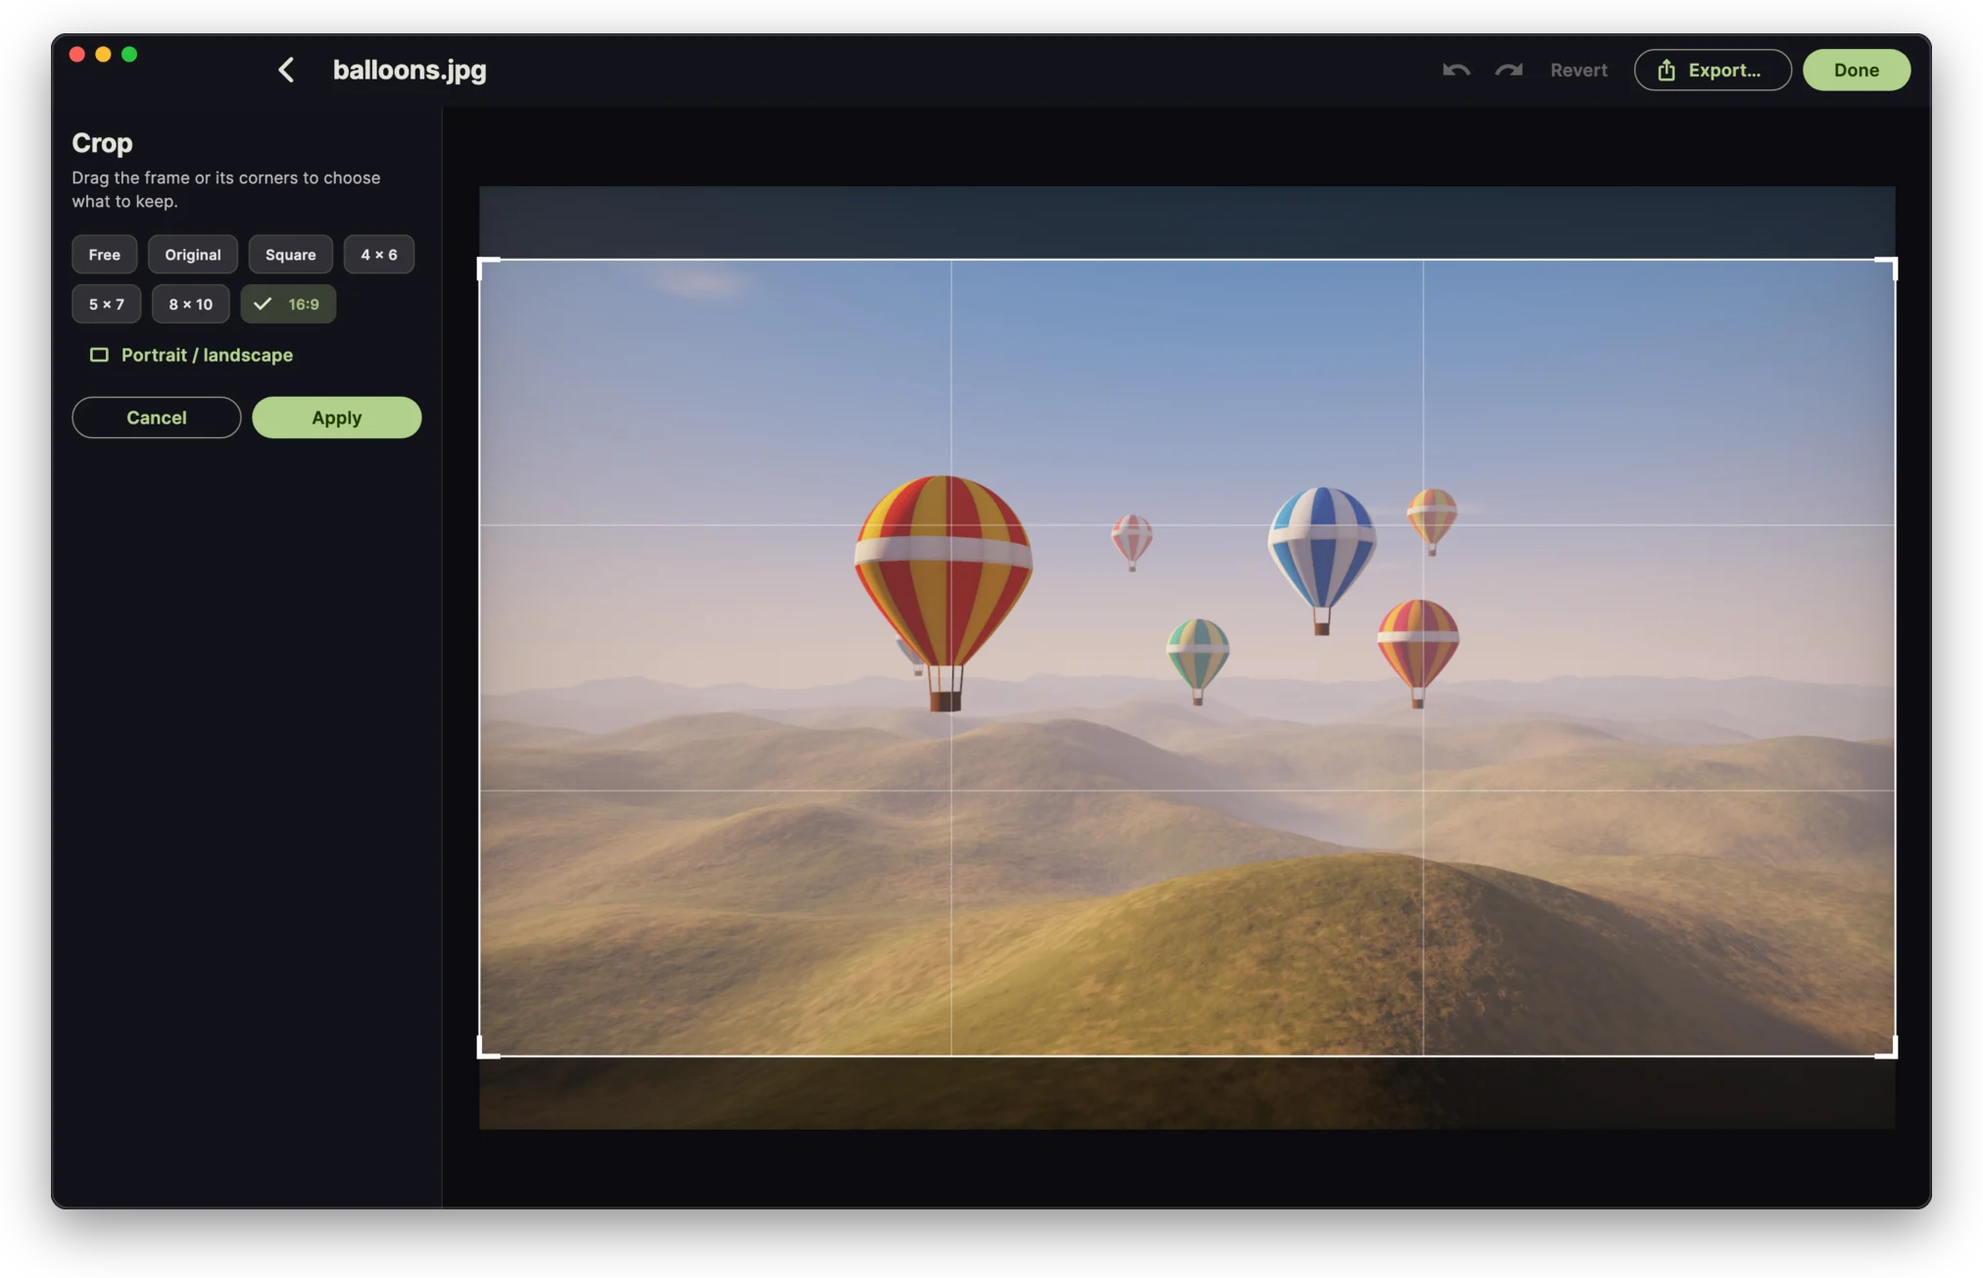
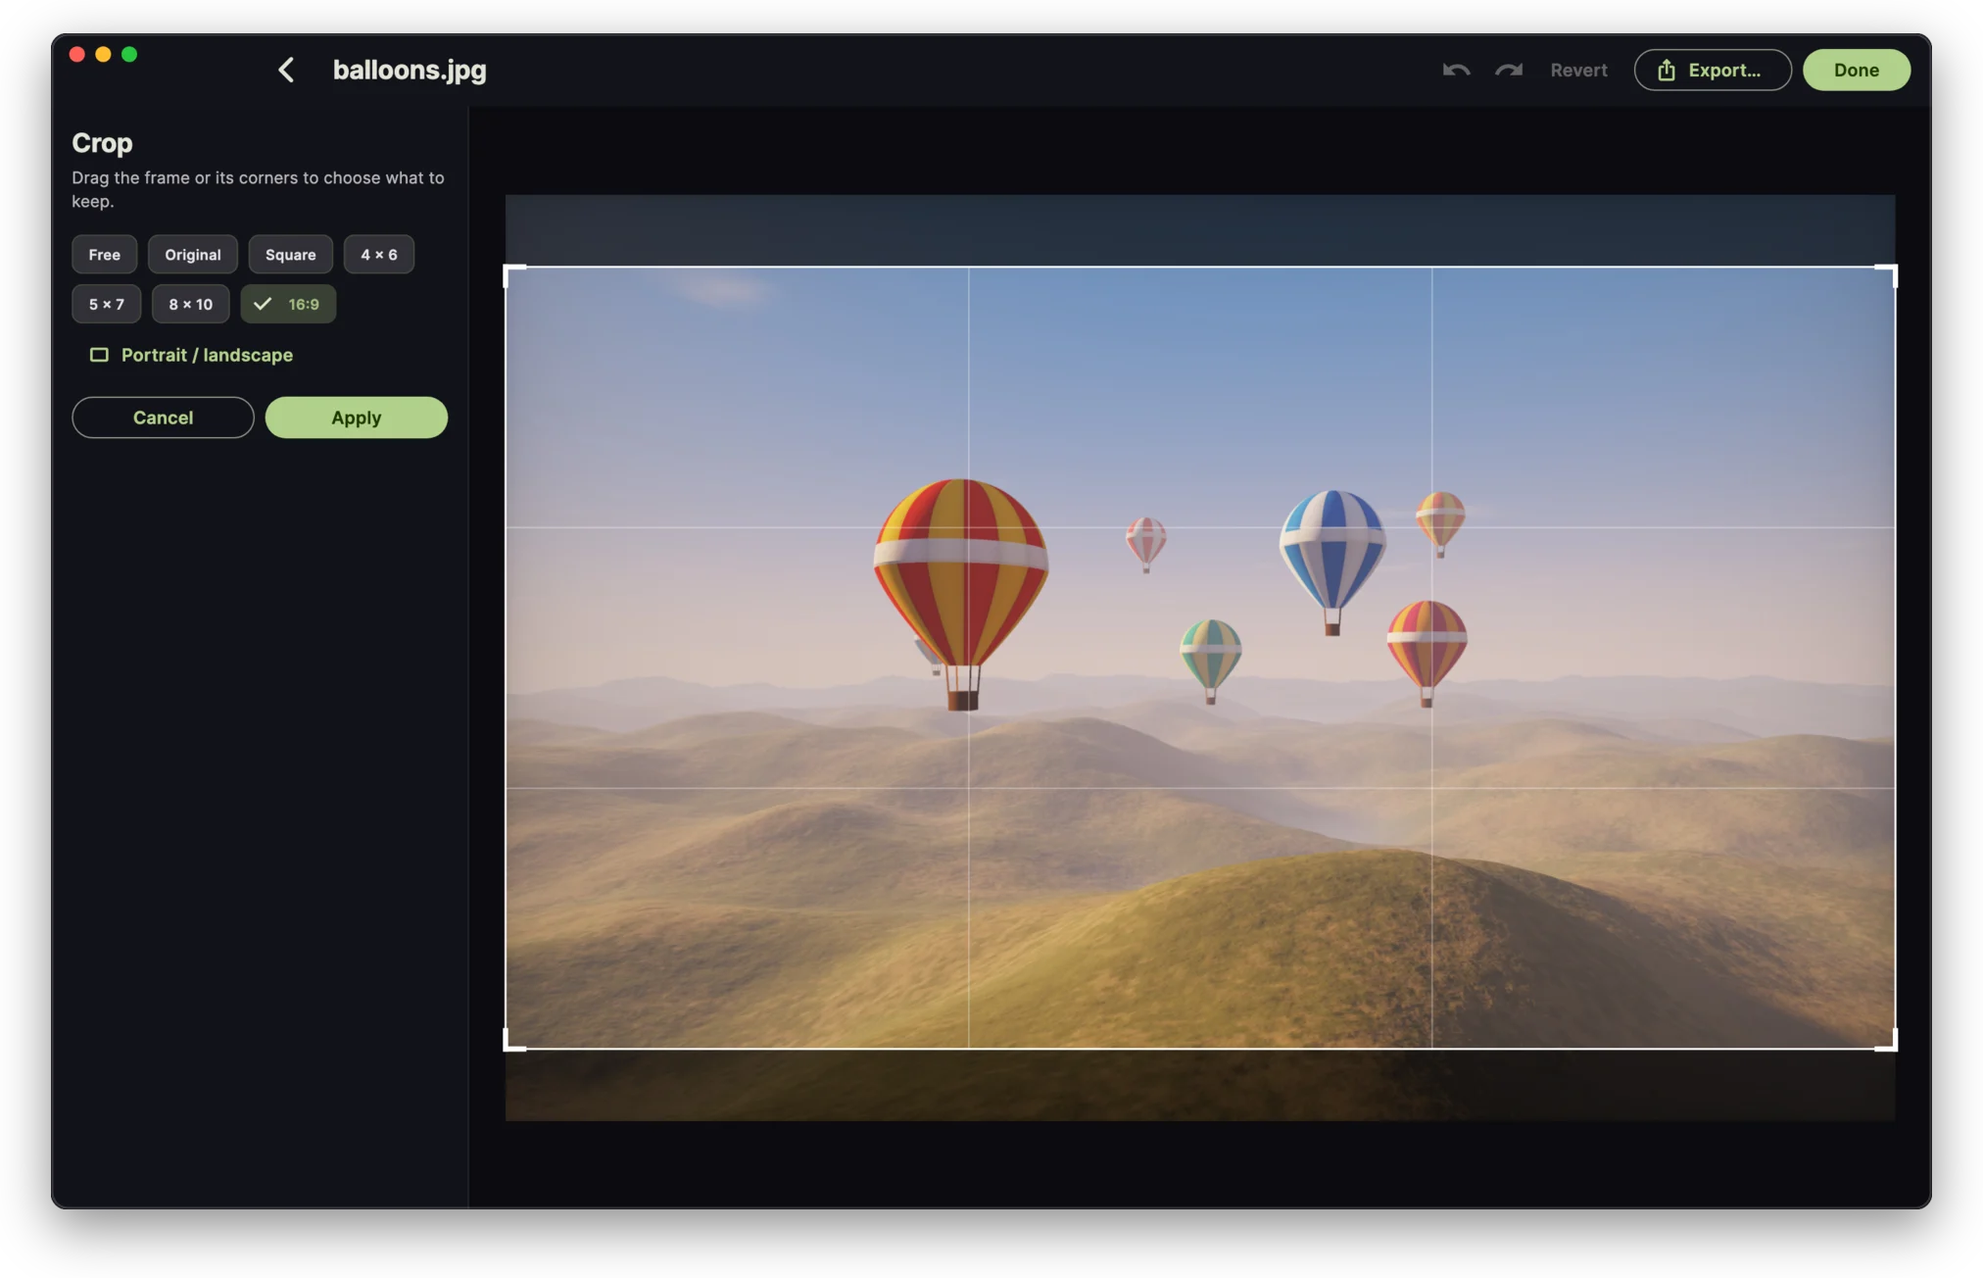
Docs: landing page, collage image and refreshed editor screenshots
A static page for GitHub Pages (served from /docs) with the metadata a
README can't carry: description, canonical URL, Open Graph, JSON-LD and a
sitemap.

diff --git a/docs/index.html b/docs/index.html
@@ -1,0 +1,272 @@
+<!doctype html>
+<html lang="en">
+<head>
+<meta charset="utf-8">
+<meta name="viewport" content="width=device-width, initial-scale=1">
+<title>Picavi: free Picasa alternative for macOS, Windows and Linux</title>
+<meta name="description" content="Picavi is a free Picasa alternative for macOS, Windows and Linux: a fast photo viewer, non-destructive editor and offline photo library. No account, no uploads.">
+<link rel="canonical" href="https://shreyashkore.github.io/picavi/">
+<link rel="icon" href="images/favicon.png" type="image/png">
+<link rel="apple-touch-icon" href="images/icon-180.png">
+<meta name="theme-color" content="#0b0d2a">
+<meta property="og:type" content="website">
+<meta property="og:site_name" content="Picavi">
+<meta property="og:title" content="Picavi: free Picasa alternative for macOS, Windows and Linux">
+<meta property="og:description" content="Picavi is a free Picasa alternative for macOS, Windows and Linux: a fast photo viewer, non-destructive editor and offline photo library. No account, no uploads.">
+<meta property="og:url" content="https://shreyashkore.github.io/picavi/">
+<meta property="og:image" content="https://shreyashkore.github.io/picavi/images/picavi-social-preview.jpg">
+<meta property="og:image:width" content="1280">
+<meta property="og:image:height" content="640">
+<meta property="og:image:alt" content="Picavi, the photo viewer, editor and library for everyone who still misses Picasa">
+<meta name="twitter:card" content="summary_large_image">
+<link rel="preload" as="image" href="images/hero-lake.webp" type="image/webp">
+<script type="application/ld+json">
+{
+ "@context": "https://schema.org",
+ "@graph": [
+  {
+   "@type": "SoftwareApplication",
+   "name": "Picavi",
+   "url": "https://shreyashkore.github.io/picavi/",
+   "description": "Picavi is a free Picasa alternative for macOS, Windows and Linux: a fast photo viewer, non-destructive editor and offline photo library. No account, no uploads.",
+   "applicationCategory": "MultimediaApplication",
+   "operatingSystem": "macOS 12 or later, Windows, Linux",
+   "downloadUrl": "https://github.com/ShreyashKore/picavi/releases",
+   "image": "https://shreyashkore.github.io/picavi/images/picavi-social-preview.jpg",
+   "screenshot": [
+    "https://shreyashkore.github.io/picavi/images/photo-viewer.webp",
+    "https://shreyashkore.github.io/picavi/images/photo-library.webp",
+    "https://shreyashkore.github.io/picavi/images/photo-editor.webp"
+   ],
+   "offers": {
+    "@type": "Offer",
+    "price": "0",
+    "priceCurrency": "USD"
+   }
+  },
+  {
+   "@type": "FAQPage",
+   "mainEntity": [
+    {
+     "@type": "Question",
+     "name": "Is Picavi a good replacement for Picasa?",
+     "acceptedAnswer": {
+      "@type": "Answer",
+      "text": "If you used Picasa to look through folders, star and caption photos, make quick fixes and keep everything on your own computer, Picavi covers that today. If you depend on RAW files or videos, it doesn't yet."
+     }
+    },
+    {
+     "@type": "Question",
+     "name": "Can I bring my Picasa library over?",
+     "acceptedAnswer": {
+      "@type": "Answer",
+      "text": "Your photos, yes: add the same folders to the Picavi library and it indexes them in place. Picasa's own albums, face tags and unsaved edits (its .picasa.ini files) aren't imported yet. Picavi leaves those files alone."
+     }
+    },
+    {
+     "@type": "Question",
+     "name": "Does it run on Apple silicon Macs, Windows 11 and Linux?",
+     "acceptedAnswer": {
+      "@type": "Answer",
+      "text": "It runs on macOS 12 or later, Windows and Linux desktops. A few features use macOS frameworks and are Mac-only for now: face grouping, Live Text, the share menu, and HEIC, AVIF and TIFF decoding."
+     }
+    },
+    {
+     "@type": "Question",
+     "name": "Is it free? Do I need an account?",
+     "acceptedAnswer": {
+      "@type": "Answer",
+      "text": "It's free, and there is no account or cloud. Photos, edits, tags and faces stay on your computer. Picavi goes online only for map tiles while a map is open, and once to fetch its interface font."
+     }
+    },
+    {
+     "@type": "Question",
+     "name": "Will it change or delete my originals?",
+     "acceptedAnswer": {
+      "@type": "Answer",
+      "text": "Edits never do. The one thing written into a photo is a rotation you choose to save. Deleting moves files to the Trash or Recycle Bin, and copies and moves never overwrite."
+     }
+    },
+    {
+     "@type": "Question",
+     "name": "Which image formats are supported?",
+     "acceptedAnswer": {
+      "@type": "Answer",
+      "text": "JPEG, PNG, GIF, WebP, BMP, ICO and SVG everywhere, plus HEIC, HEIF, AVIF and TIFF on macOS."
+     }
+    }
+   ]
+  }
+ ]
+}
+</script>
+<style>
+:root { --ink:#f4f3ff; --soft:#b9bbe2; --bg:#0a0b22; --panel:#12143a; --line:rgba(190,190,255,.16); --leaf:#b6d987; --leaf-ink:#1c2b07; }
+* { box-sizing:border-box; margin:0; }
+html { scroll-behavior:smooth; }
+body { background:var(--bg); color:var(--ink); font:17px/1.6 Inter,ui-sans-serif,system-ui,-apple-system,"Segoe UI",Roboto,sans-serif; -webkit-font-smoothing:antialiased; }
+img { max-width:100%; height:auto; display:block; }
+a { color:var(--leaf); }
+:focus-visible { outline:2px solid var(--leaf); outline-offset:3px; border-radius:6px; }
+.wrap { width:min(1160px,100% - 40px); margin-inline:auto; }
+.hero { position:relative; padding:22px 0 230px; background:linear-gradient(90deg,rgba(9,10,38,.94),rgba(14,14,54,.74) 45%,rgba(16,12,58,.28)),linear-gradient(0deg,var(--bg),transparent 42%),url(images/hero-lake.webp) center 60%/cover; }
+nav { display:flex; align-items:center; gap:26px; font-size:15px; font-weight:600; }
+nav .brand { display:flex; align-items:center; gap:10px; margin-right:auto; font-size:20px; letter-spacing:-.4px; color:var(--ink); text-decoration:none; }
+nav a:not(.brand) { color:var(--soft); text-decoration:none; }
+nav a:not(.brand):hover { color:var(--ink); }
+.top { display:grid; grid-template-columns:1fr 1.02fr; gap:24px; align-items:center; padding-top:34px; }
+h1 { font-size:clamp(38px,5.2vw,64px); line-height:1.04; letter-spacing:-.035em; font-weight:750; text-wrap:balance; }
+.lede { margin:22px 0 30px; max-width:33em; font-size:clamp(17px,1.6vw,20px); color:#dcdcf7; }
+.btn { display:inline-block; padding:13px 24px; border-radius:999px; font-weight:700; text-decoration:none; background:var(--leaf); color:var(--leaf-ink); }
+.btn:hover { background:#c6e59c; }
+.btn.ghost { background:rgba(255,255,255,.08); color:var(--ink); box-shadow:inset 0 0 0 1px var(--line); margin-left:8px; }
+.btn.ghost:hover { background:rgba(255,255,255,.14); }
+.note { margin-top:16px; font-size:14.5px; color:var(--soft); }
+.first { margin-top:-190px; position:relative; }
+section { padding:72px 0 0; }
+h2 { font-size:clamp(28px,3.3vw,42px); line-height:1.12; letter-spacing:-.028em; font-weight:720; text-wrap:balance; }
+h2 + p { margin-top:14px; color:var(--soft); max-width:46em; }
+.shot { margin-top:26px; }
+.cols { display:grid; grid-template-columns:repeat(3,1fr); gap:30px 40px; margin-top:26px; }
+h3 { font-size:18px; letter-spacing:-.01em; }
+.cols p { color:var(--soft); margin-top:4px; font-size:16px; }
+.dl { display:grid; grid-template-columns:repeat(3,1fr); gap:16px; margin-top:28px; }
+.dl > div { background:var(--panel); border-radius:18px; padding:24px; display:flex; flex-direction:column; gap:8px; }
+.dl p { color:var(--soft); font-size:15.5px; flex:1; }
+.dl a { font-weight:700; }
+code { font:.88em ui-monospace,SFMono-Regular,Menlo,monospace; background:rgba(255,255,255,.08); padding:.12em .4em; border-radius:5px; overflow-wrap:anywhere; }
+.tbl { overflow-x:auto; margin-top:28px; }
+table { border-collapse:collapse; width:100%; min-width:560px; font-size:16px; }
+th,td { text-align:left; padding:12px 14px; border-bottom:1px solid var(--line); font-weight:500; }
+thead th { font-weight:700; }
+tbody th { color:var(--soft); }
+td.y { color:var(--leaf); } td.n { color:#f0a9a9; } td.p { color:#f2d58a; }
+.collage { border-radius:14px; margin-top:28px; }
+details { border-bottom:1px solid var(--line); padding:16px 0; }
+summary { cursor:pointer; font-weight:650; font-size:18px; }
+details p { color:var(--soft); margin-top:10px; max-width:48em; }
+footer { margin-top:80px; padding:34px 0 46px; border-top:1px solid var(--line); color:var(--soft); font-size:14.5px; }
+footer p + p { margin-top:8px; }
+@media (max-width:860px) {
+  nav a:not(.brand):not(.keep) { display:none; }
+  .top { grid-template-columns:1fr; padding-top:30px; }
+  .top > img { width:min(440px,100%); margin-inline:auto; }
+  .hero { padding-bottom:120px; } .first { margin-top:-96px; }
+  .cols,.dl { grid-template-columns:1fr; }
+  section { padding-top:56px; }
+  table { min-width:0; font-size:14.5px; } th,td { padding:10px 8px; overflow-wrap:anywhere; }
+}
+@media (max-width:420px) { .btn { display:block; text-align:center; } .btn.ghost { margin:10px 0 0; } }
+@media (prefers-reduced-motion:reduce) { html { scroll-behavior:auto; } }
+</style>
+</head>
+<body>
+<header class="hero">
+  <div class="wrap">
+    <nav aria-label="Main">
+      <a class="brand" href="./"><img src="images/icon-180.png" alt="" width="36" height="36">Picavi</a>
+      <a href="#features">Features</a>
+      <a href="#compare">Picavi vs Picasa</a>
+      <a href="#faq">FAQ</a>
+      <a class="keep" href="https://github.com/ShreyashKore/picavi">GitHub</a>
+    </nav>
+    <div class="top">
+      <div>
+        <h1>The free Picasa alternative for your desktop</h1>
+        <p class="lede">Picavi is a photo viewer, editor and library for everyone who still misses Picasa. Flip through a folder, fix a photo in a click, and keep everything on your own disk.</p>
+        <a class="btn" href="#download">Download Picavi</a><a class="btn ghost" href="#compare">Compare with Picasa</a>
+        <p class="note">For macOS, Windows and Linux. No account, no uploads. Currently in alpha.</p>
+      </div>
+      <img src="images/polaroids.webp" width="1360" height="1280" alt="A fan of photo prints: balloons, northern lights, a canyon, a reef, lavender and a sunflower">
+    </div>
+  </div>
+</header>
+<main>
+  <div class="wrap first" id="features">
+    <img src="images/photo-viewer.webp" width="2024" height="1304" alt="Picavi photo viewer showing a mountain lake with a thumbnail filmstrip and zoom, slideshow and edit controls">
+  </div>
+  <section class="wrap" style="padding-top:24px">
+    <h2>Open one photo, see the whole folder</h2>
+    <p>Picavi loads every image next to the one you opened, so you can keep pressing the arrow key.</p>
+    <div class="cols">
+      <div><h3>Fast to look through</h3><p>Smooth zoom and pan, full screen, slideshow, and an info panel with EXIF, captions and tags.</p></div>
+      <div><h3>Tidy as you go</h3><p>Rename, copy, move or bin one photo or a whole selection. Deleting always goes to the Trash.</p></div>
+      <div><h3>All from the keyboard</h3><p>Star, rotate, edit and browse with single keys. Press ? to see every shortcut.</p></div>
+    </div>
+  </section>
+  <section class="wrap">
+    <h2>A photo library that leaves your files where they are</h2>
+    <p>Point it at the folders you already have. Stars, captions and tags are saved in a small file next to your photos, so they travel with the folder.</p>
+    <img class="shot" loading="lazy" src="images/photo-library.webp" width="2024" height="1304" alt="Picavi photo library grouped by month, with albums, starred photos, places, people and folders in the sidebar">
+    <div class="cols">
+      <div><h3>Find anything</h3><p>Browse by month, folder, album or star, or search names, captions, tags, cameras, dates and people.</p></div>
+      <div><h3>Places and people</h3><p>See photos on a map, and on macOS group and name faces without uploading anything.</p></div>
+      <div><h3>Import and de-duplicate</h3><p>Copy from a camera into dated folders, skip what you have, and find exact duplicates.</p></div>
+    </div>
+  </section>
+  <section class="wrap">
+    <h2>Picasa-style editing that never touches the original</h2>
+    <p>I'm Feeling Lucky, fill light, color temperature, red-eye, straighten, crop to print sizes and nine effects. Undo or revert whenever you like.</p>
+    <img class="shot" loading="lazy" src="images/photo-editor.webp" width="2024" height="1304" alt="Picavi photo editor with fill light, highlights, shadows and color temperature sliders">
+  </section>
+  <section class="wrap">
+    <h2>Collages, contact sheets and prints</h2>
+    <p>Turn a selection into a mosaic or grid collage, a contact sheet, or prints with up to nine photos on a page.</p>
+    <img class="collage" loading="lazy" src="images/photo-collage.webp" width="1600" height="1067" alt="Photo collage made in Picavi: nine landscape photos in a justified mosaic">
+  </section>
+  <section class="wrap" id="download">
+    <h2>Download Picavi</h2>
+    <p>Picavi is in alpha and its installers aren't signed yet, so your system asks you to confirm the first launch.</p>
+    <div class="dl">
+      <div><h3>macOS 12 or later</h3><p>Open it once, then allow it in System Settings, Privacy &amp; Security, Open Anyway.</p><a href="https://github.com/ShreyashKore/picavi/releases">Get picavi-macos.dmg</a></div>
+      <div><h3>Windows</h3><p>If SmartScreen appears, choose More info, then Run anyway.</p><a href="https://github.com/ShreyashKore/picavi/releases">Get picavi-windows-setup.exe</a></div>
+      <div><h3>Ubuntu 22.04+, Debian 12+</h3><p><code>sudo apt install ./picavi-linux.deb</code></p><a href="https://github.com/ShreyashKore/picavi/releases">Get picavi-linux.deb</a></div>
+    </div>
+  </section>
+  <section class="wrap" id="compare">
+    <h2>Picavi vs Picasa</h2>
+    <p>Google stopped supporting Picasa in March 2016. Picavi isn't finished either, so here is where it stands. Most of the gaps are on the <a href="https://github.com/ShreyashKore/picavi/blob/main/docs/ROADMAP.md">roadmap</a>.</p>
+    <div class="tbl" tabindex="0" role="region" aria-label="Picavi and Picasa compared">
+      <table>
+        <thead><tr><th scope="col">Feature</th><th scope="col">Picasa 3</th><th scope="col">Picavi</th></tr></thead>
+        <tbody>
+          <tr><th scope="row">Still developed</th><td class="n">No, support ended in 2016</td><td class="y">Yes</td></tr>
+          <tr><th scope="row">Platforms</th><td>Windows, macOS</td><td>macOS, Windows, Linux</td></tr>
+          <tr><th scope="row">Works offline, on your own folders</th><td class="y">Yes</td><td class="y">Yes</td></tr>
+          <tr><th scope="row">Non-destructive edits in a sidecar file</th><td>.picasa.ini</td><td>.picavi.json</td></tr>
+          <tr><th scope="row">I'm Feeling Lucky, crop, straighten, red-eye</th><td class="y">Yes</td><td class="y">Yes</td></tr>
+          <tr><th scope="row">Tuning sliders and effects</th><td class="y">Yes</td><td class="y">Yes</td></tr>
+          <tr><th scope="row">Albums, stars, captions, tags</th><td class="y">Yes</td><td class="y">Yes</td></tr>
+          <tr><th scope="row">Photos on a map</th><td class="y">Yes</td><td class="y">Yes</td></tr>
+          <tr><th scope="row">Face recognition</th><td class="y">Yes</td><td class="p">macOS only</td></tr>
+          <tr><th scope="row">Duplicate finder</th><td class="y">Yes</td><td class="p">Exact copies</td></tr>
+          <tr><th scope="row">Collage, contact sheet, print, camera import</th><td class="y">Yes</td><td class="y">Yes</td></tr>
+          <tr><th scope="row">HEIC and AVIF photos</th><td class="n">No</td><td class="p">macOS only</td></tr>
+          <tr><th scope="row">Reads existing .picasa.ini data</th><td class="y">Yes</td><td class="n">Not yet</td></tr>
+          <tr><th scope="row">RAW photos</th><td class="y">Yes</td><td class="n">Not yet</td></tr>
+          <tr><th scope="row">Video playback and movie maker</th><td class="y">Yes</td><td class="n">Not yet</td></tr>
+        </tbody>
+      </table>
+    </div>
+  </section>
+  <section class="wrap" id="faq">
+    <h2>Questions</h2>
+    <div style="margin-top:18px">
+      <details><summary>Is Picavi a good replacement for Picasa?</summary><p>If you used Picasa to look through folders, star and caption photos, make quick fixes and keep everything on your own computer, Picavi covers that today. If you depend on RAW files or videos, it doesn't yet.</p></details>
+      <details><summary>Can I bring my Picasa library over?</summary><p>Your photos, yes: add the same folders to the Picavi library and it indexes them in place. Picasa's own albums, face tags and unsaved edits (its .picasa.ini files) aren't imported yet. Picavi leaves those files alone.</p></details>
+      <details><summary>Does it run on Apple silicon Macs, Windows 11 and Linux?</summary><p>It runs on macOS 12 or later, Windows and Linux desktops. A few features use macOS frameworks and are Mac-only for now: face grouping, Live Text, the share menu, and HEIC, AVIF and TIFF decoding.</p></details>
+      <details><summary>Is it free? Do I need an account?</summary><p>It's free, and there is no account or cloud. Photos, edits, tags and faces stay on your computer. Picavi goes online only for map tiles while a map is open, and once to fetch its interface font.</p></details>
+      <details><summary>Will it change or delete my originals?</summary><p>Edits never do. The one thing written into a photo is a rotation you choose to save. Deleting moves files to the Trash or Recycle Bin, and copies and moves never overwrite.</p></details>
+      <details><summary>Which image formats are supported?</summary><p>JPEG, PNG, GIF, WebP, BMP, ICO and SVG everywhere, plus HEIC, HEIF, AVIF and TIFF on macOS.</p></details>
+    </div>
+  </section>
+</main>
+<footer>
+  <div class="wrap">
+    <p><a href="https://github.com/ShreyashKore/picavi">Source code</a> · <a href="https://github.com/ShreyashKore/picavi/releases">Releases</a> · <a href="https://github.com/ShreyashKore/picavi/issues">Report a problem</a></p>
+    <p>The photos shown here are computer-generated sample images made for this project.</p>
+    <p>Picasa is a trademark of Google LLC. Picavi is an independent project, not affiliated with or endorsed by Google.</p>
+  </div>
+</footer>
+</body>
+</html>

diff --git a/README.md b/README.md
@@ -86,6 +86,8 @@ Open one image and every supported image in its folder loads into the filmstrip.
 
 ### ✨ And then do something with them
 
+![Photo collage made in Picavi: nine landscape photos in a justified mosaic](docs/images/photo-collage.webp)
+
 - Make photo collages (mosaic or grid) and contact sheets.
 - Print 1, 2, 4 or 9 photos per page.
 - Share through the macOS share menu, and select text inside photos with Live Text (macOS).
